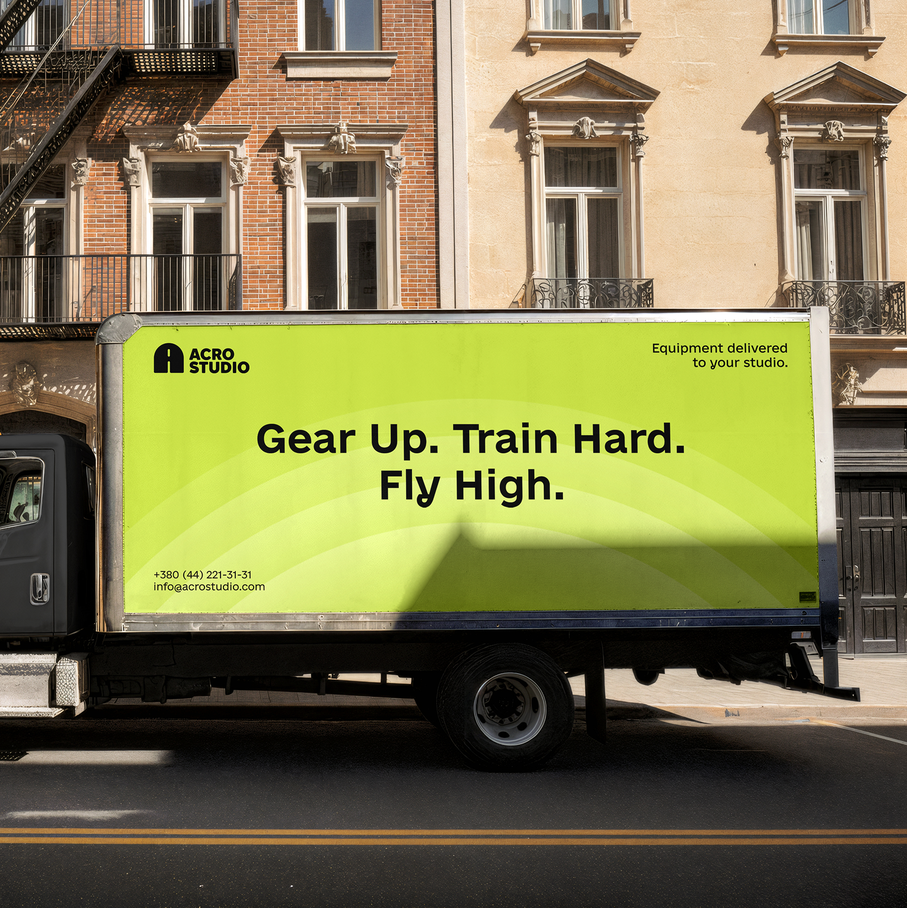
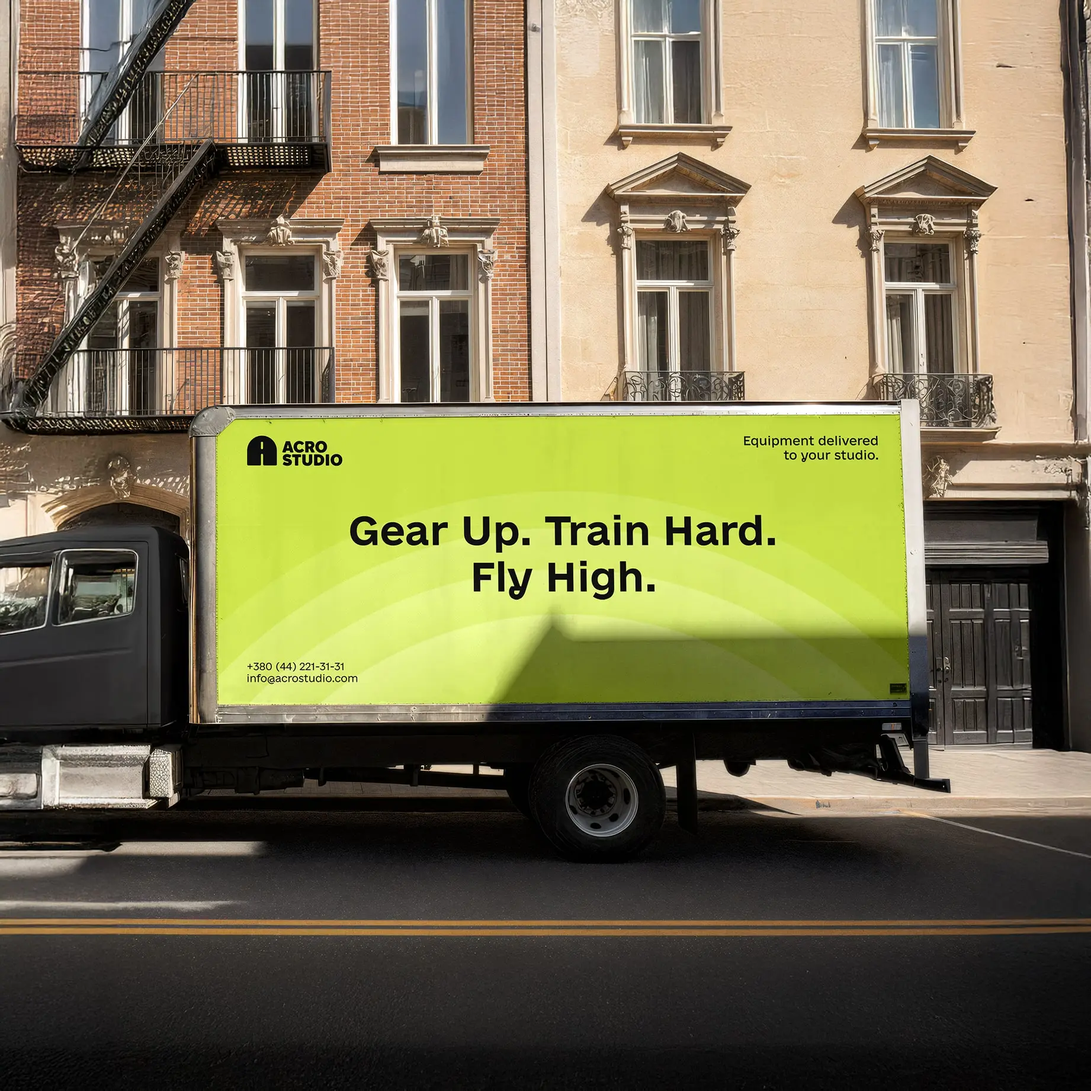
1. Added class for images of case-gallery 2. Changed image: case-img-3

diff --git a/app/components/case/case-gallery/case-gallery.tsx b/app/components/case/case-gallery/case-gallery.tsx
@@ -1,144 +1,146 @@
 'use client';
 
 import clsx from 'clsx';
-import {FC, ReactNode, useEffect, useRef} from 'react';
+import { FC, ReactNode, useEffect, useRef } from 'react';
 import gsap from 'gsap';
-import {ScrollTrigger} from 'gsap/ScrollTrigger';
+import { ScrollTrigger } from 'gsap/ScrollTrigger';
 
 import styles from './case-gallery.module.scss';
 import Container from '../../layout/container/container';
 import Image from 'next/image';
 import useSplitTextAnimation from '@/app/hooks/useSplitTextAnimation';
 import AutoVideo from '@/app/components/ui/Auto-video/AutoVideo';
-import {useIsMobile} from "@/app/hooks/useIsMobile";
+import { useIsMobile } from '@/app/hooks/useIsMobile';
 
 gsap.registerPlugin(ScrollTrigger);
 
 type VideoItem = {
-    src: string;
-    type: string;
-    poster?: string;
-    fullSrc?: string;
-    fullType?: string;
+  src: string;
+  type: string;
+  poster?: string;
+  fullSrc?: string;
+  fullType?: string;
 };
 type ImageItem = {
-    srcDesk: string;
-    srcMob: string;
+  srcDesk: string;
+  srcMob: string;
+  classNames?: string;
 };
 
 type MediaItem = {
-    image?: ImageItem;
-    video?: VideoItem;
+  image?: ImageItem;
+  video?: VideoItem;
 };
 
 interface CaseGalleryProps {
-    label: string;
-    title: ReactNode;
-    media: MediaItem[];
+  label: string;
+  title: ReactNode;
+  media: MediaItem[];
 }
 
-const CaseGallery: FC<CaseGalleryProps> = ({label, title, media}) => {
-    let galleryClass = '';
+const CaseGallery: FC<CaseGalleryProps> = ({ label, title, media }) => {
+  let galleryClass = '';
 
-    const isMobile = useIsMobile();
+  const isMobile = useIsMobile();
 
-    const galleryRef = useRef<HTMLUListElement>(null);
-    const titleRef = useRef<HTMLHeadingElement>(null);
+  const galleryRef = useRef<HTMLUListElement>(null);
+  const titleRef = useRef<HTMLHeadingElement>(null);
 
+  switch (media.length) {
+    case 1:
+      galleryClass = styles.gallery1;
+      break;
+    case 2:
+      galleryClass = styles.gallery2;
+      break;
+    case 3:
+      galleryClass = styles.gallery3;
+      break;
+    case 4:
+      galleryClass = styles.gallery4;
+      break;
+    case 5:
+      galleryClass = styles.gallery5;
+      break;
+    default:
+      galleryClass = styles.galleryDefault;
+  }
 
-    switch (media.length) {
-        case 1:
-            galleryClass = styles.gallery1;
-            break;
-        case 2:
-            galleryClass = styles.gallery2;
-            break;
-        case 3:
-            galleryClass = styles.gallery3;
-            break;
-        case 4:
-            galleryClass = styles.gallery4;
-            break;
-        case 5:
-            galleryClass = styles.gallery5;
-            break;
-        default:
-            galleryClass = styles.galleryDefault;
-    }
+  useEffect(() => {
+    if (!galleryRef.current) return;
 
-    useEffect(() => {
-        if (!galleryRef.current) return;
+    const mediaEl = galleryRef.current.querySelector<HTMLElement>(
+      'li:nth-child(3) img, li:nth-child(3) video',
+    );
+    if (!mediaEl) return;
 
-        const mediaEl = galleryRef.current.querySelector<HTMLElement>(
-            'li:nth-child(3) img, li:nth-child(3) video',
-        );
-        if (!mediaEl) return;
+    gsap.fromTo(
+      mediaEl,
+      { y: '10%', scale: 1.2 },
+      {
+        y: '-10%',
+        ease: 'none',
+        scrollTrigger: {
+          trigger: mediaEl,
+          start: 'top 80%',
+          end: 'bottom 20%',
+          scrub: true,
+        },
+      },
+    );
 
-        gsap.fromTo(
-            mediaEl,
-            {y: '10%', scale: 1.2},
-            {
-                y: '-10%',
-                ease: 'none',
-                scrollTrigger: {
-                    trigger: mediaEl,
-                    start: 'top 80%',
-                    end: 'bottom 20%',
-                    scrub: true,
-                },
-            },
-        );
+    ScrollTrigger.refresh();
+  }, []);
 
-        ScrollTrigger.refresh();
-    }, []);
+  useSplitTextAnimation(titleRef, { triggerOnScroll: true });
 
-    useSplitTextAnimation(titleRef, {triggerOnScroll: true});
-
-    return (
-        <section className={styles.section} data-header-white>
-            <Container className={styles.container}>
-                <div className={styles.header}>
+  return (
+    <section className={styles.section} data-header-white>
+      <Container className={styles.container}>
+        <div className={styles.header}>
           <span
-              className={clsx(styles.label, 'section-label section-label--white')}
+            className={clsx(styles.label, 'section-label section-label--white')}
           >
             {label}
           </span>
-                    <h2 ref={titleRef} className={styles.title}>
-                        {title}
-                    </h2>
-                </div>
+          <h2 ref={titleRef} className={styles.title}>
+            {title}
+          </h2>
+        </div>
 
-                <ul className={clsx(styles.images, galleryClass)} ref={galleryRef}>
-                    {media.map((item, index) => (
-                        <li className={styles.item} key={index}>
-                            {item.image && (
-                                isMobile ?
-                                    <Image
-                                        src={item.image.srcMob}
-                                        alt={`Gallery image ${index + 1}`}
-                                        priority={true}
-                                        fill
-                                        sizes="(max-width: 768px) 100vw, (max-width: 1200px) 50vw, 33vw"
-                                        className={styles.image}
-                                    /> : <Image
-                                        src={item.image.srcDesk}
-                                        alt={`Gallery image ${index + 1}`}
-                                        priority={true}
-                                        fill
-                                        sizes="(max-width: 768px) 100vw, (max-width: 1200px) 50vw, 33vw"
-                                        className={styles.image}
-                                    />
-                            )}
+        <ul className={clsx(styles.images, galleryClass)} ref={galleryRef}>
+          {media.map((item, index) => (
+            <li className={styles.item} key={index}>
+              {item.image &&
+                (isMobile ? (
+                  <Image
+                    src={item.image.srcMob}
+                    alt={`Gallery image ${index + 1}`}
+                    priority={true}
+                    fill
+                    sizes="(max-width: 768px) 100vw, (max-width: 1200px) 50vw, 33vw"
+                    className={clsx(styles.image, item.image.classNames)}
+                  />
+                ) : (
+                  <Image
+                    src={item.image.srcDesk}
+                    alt={`Gallery image ${index + 1}`}
+                    priority={true}
+                    fill
+                    sizes="(max-width: 768px) 100vw, (max-width: 1200px) 50vw, 33vw"
+                    className={clsx(styles.image, item.image.classNames)}
+                  />
+                ))}
 
-                            {item.video && (
-                                <AutoVideo video={item.video} className={styles.video}/>
-                            )}
-                        </li>
-                    ))}
-                </ul>
-            </Container>
-        </section>
-    );
+              {item.video && (
+                <AutoVideo video={item.video} className={styles.video} />
+              )}
+            </li>
+          ))}
+        </ul>
+      </Container>
+    </section>
+  );
 };
 
 export default CaseGallery;

diff --git a/app/styles/global.scss b/app/styles/global.scss
@@ -1,4 +1,4 @@
-@use "reset-css";
+@use 'reset-css';
 @use './utils.scss';
 
 * {
@@ -11,7 +11,8 @@ a {
   text-decoration: none;
   color: inherit;
 }
-html, body {
+html,
+body {
   cursor: none !important;
 }
 * {
@@ -61,6 +62,10 @@ p {
   font-style: normal;
   font-weight: 700;
   line-height: 140%;
+}
+
+.tranform-origin-center-bottom {
+  transform-origin: center bottom;
 }
 
 .section-label {
@@ -116,16 +121,14 @@ p {
   transition: opacity 0.3s ease, transform 0.3s ease;
   mix-blend-mode: difference;
 
-
   &.visible {
-      opacity: 1;
+    opacity: 1;
   }
 
   &.drag,
   &.link {
-      mix-blend-mode: normal;
+    mix-blend-mode: normal;
   }
-
 }
 
 .cursor-ball {
@@ -144,24 +147,15 @@ p {
   z-index: 999;
   border: 1px solid transparent;
 
-  transition:
-          width 0.3s ease,
-          height 0.3s ease,
-          opacity 0.3s ease,
-          min-width 0.3s ease,
-          min-height 0.3s ease,
-          padding 0.3s ease,
-          border-radius 0.3s ease,
-          border-color 0.3s ease,
-          gap 0.3s ease;
-
+  transition: width 0.3s ease, height 0.3s ease, opacity 0.3s ease,
+    min-width 0.3s ease, min-height 0.3s ease, padding 0.3s ease,
+    border-radius 0.3s ease, border-color 0.3s ease, gap 0.3s ease;
 
   &.small {
     z-index: 998;
     width: 1rem;
     height: 1rem;
     border-radius: 50%;
-
   }
 
   &.big {
@@ -238,8 +232,6 @@ p {
   }
 }
 
-
-
 @media (min-width: 768px) {
   .h1 {
     font-size: 12.4rem;
@@ -259,7 +251,6 @@ p {
   .section-label {
     font-size: 1.6rem;
     letter-spacing: -0.048rem;
-
   }
 }
 
@@ -287,4 +278,3 @@ p {
   z-index: 1;
   animation: none !important;
 }
-

diff --git a/app/projects/acro-studio/page.tsx b/app/projects/acro-studio/page.tsx
@@ -83,6 +83,7 @@ export default function CasePage() {
             image: {
               srcMob: '/images/case-img-3.webp',
               srcDesk: '/images/case-img-3.webp',
+              classNames: 'tranform-origin-center-bottom',
             },
           },
           {
